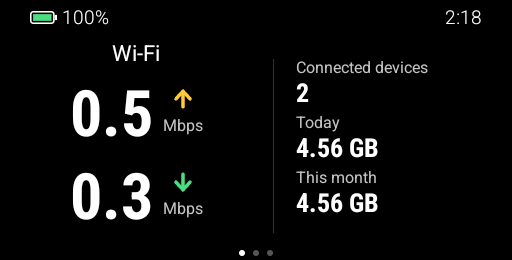
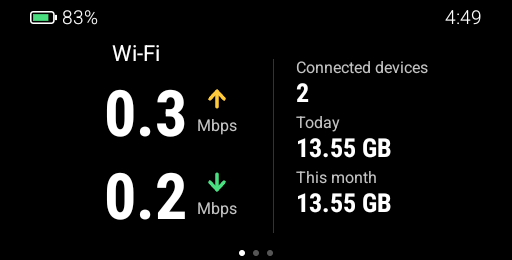
fix: correct flipped hotspot touches, invert QR and pin speed arrows

diff --git a/app/src/main/java/vn/lit/screenos/HotspotView.kt b/app/src/main/java/vn/lit/screenos/HotspotView.kt
@@ -191,9 +191,10 @@ class HotspotView(context: Context, private val onShortcuts: () -> Unit, private
     private fun speedPage(): View {
         val column = LinearLayout(context).apply { orientation = LinearLayout.VERTICAL; gravity = Gravity.CENTER }
         column.addView(carrier, LinearLayout.LayoutParams(-1, -2))
+        // The number grows to the left so the arrow and unit stay in one place.
         fun row(value: TextView, up: Boolean) = LinearLayout(context).apply {
-            gravity = Gravity.CENTER
-            addView(value)
+            gravity = Gravity.CENTER_VERTICAL; setPadding(0, 0, Ui.dp(context, 36), 0)
+            addView(value.apply { gravity = Gravity.END }, LinearLayout.LayoutParams(0, -2, 1f))
             addView(LinearLayout(context).apply {
                 orientation = LinearLayout.VERTICAL; gravity = Gravity.CENTER_HORIZONTAL
                 addView(Arrow(context, up), LinearLayout.LayoutParams(Ui.dp(context, 22), Ui.dp(context, 22)))
@@ -229,10 +230,8 @@ class HotspotView(context: Context, private val onShortcuts: () -> Unit, private
 
     override fun dispatchTouchEvent(event: MotionEvent): Boolean {
         if (event.actionMasked == MotionEvent.ACTION_UP && !dimmed) scheduleDim()
-        if (!flipped) return super.dispatchTouchEvent(event)
-        // The view is drawn rotated 180 degrees, so map touches into the same upright space.
-        val upright = MotionEvent.obtain(event).apply { transform(android.graphics.Matrix().apply { setRotate(180f, width / 2f, height / 2f) }) }
-        return try { super.dispatchTouchEvent(upright) } finally { upright.recycle() }
+        // The parent already maps touches through this view's 180 degree rotation.
+        return super.dispatchTouchEvent(event)
     }
 
     private var flipped = false

diff --git a/app/src/main/java/vn/lit/screenos/SpeedTestView.kt b/app/src/main/java/vn/lit/screenos/SpeedTestView.kt
@@ -89,8 +89,9 @@ class SpeedTestView(
     private fun stat() = small("-", 17f, Color.WHITE).apply { typeface = bold }
 
     private fun speedRow(value: TextView, up: Boolean, label: Int) = LinearLayout(context).apply {
-        gravity = Gravity.CENTER; contentDescription = I18n.text(label)
-        addView(value)
+        gravity = Gravity.CENTER_VERTICAL; contentDescription = I18n.text(label); setPadding(0, 0, Ui.dp(context, 24), 0)
+        // The number grows to the left so the arrow and unit stay in one place.
+        addView(value.apply { gravity = Gravity.END }, LayoutParams(0, -2, 1f))
         addView(LinearLayout(context).apply {
             orientation = VERTICAL; gravity = Gravity.CENTER_HORIZONTAL
             addView(HotspotView.Arrow(context, up), LayoutParams(Ui.dp(context, 20), Ui.dp(context, 20)))

diff --git a/app/src/main/java/vn/lit/screenos/HotspotWifi.kt b/app/src/main/java/vn/lit/screenos/HotspotWifi.kt
@@ -24,7 +24,7 @@ data class HotspotWifi(val ssid: String, val password: String) {
 
     fun bitmap(size: Int): Bitmap {
         val matrix = matrix(size)
-        val pixels = IntArray(matrix.width * matrix.height) { if (matrix[it % matrix.width, it / matrix.width]) Color.BLACK else Color.WHITE }
+        val pixels = IntArray(matrix.width * matrix.height) { if (matrix[it % matrix.width, it / matrix.width]) Color.WHITE else Color.BLACK }
         return Bitmap.createBitmap(pixels, matrix.width, matrix.height, Bitmap.Config.RGB_565)
     }
 

diff --git a/README.md b/README.md
@@ -4,9 +4,9 @@
 
 Open apps on your **Galaxy Z Flip3 cover screen**. Foldlet adds an app drawer, search, favorites, and navigation alongside Samsung’s native clock and widgets.
 
-**[Download APK 0.12.4](https://github.com/luongwnv/Foldlet/releases/download/v0.12.4/Foldlet-0.12.4.apk)** - **0.12.4 beta** - Tested on **SM-F711B, Android 14 / One UI 6.1.1**.
+**[Download APK 0.12.5](https://github.com/luongwnv/Foldlet/releases/download/v0.12.5/Foldlet-0.12.5.apk)** - **0.12.5 beta** - Tested on **SM-F711B, Android 14 / One UI 6.1.1**.
 
-[Foldlet Controls 1.1.0 (Optional)](https://github.com/luongwnv/Foldlet/releases/download/v0.12.4/Foldlet-Controls-1.1.0.apk) enables one-tap Wi-Fi and Bluetooth without a computer.
+[Foldlet Controls 1.1.0 (Optional)](https://github.com/luongwnv/Foldlet/releases/download/v0.12.5/Foldlet-Controls-1.1.0.apk) enables one-tap Wi-Fi and Bluetooth without a computer.
 
 ## Screenshots
 
@@ -43,7 +43,7 @@ Actual captures of the native Android interface running on a dedicated test emul
 
 ## Getting started
 
-1. Download **Foldlet-0.12.4.apk** from [Releases](https://github.com/luongwnv/Foldlet/releases), open it on your phone, and allow installation from that source when Android asks.
+1. Download **Foldlet-0.12.5.apk** from [Releases](https://github.com/luongwnv/Foldlet/releases), open it on your phone, and allow installation from that source when Android asks.
 2. Open **Foldlet** on the inner screen. In **Overview**, grant **Display over other apps** and enable the **Foldlet** service in Android’s **Accessibility** settings.
 3. Grant **Usage access** to use Recent apps. Allow notifications if you want the service notification and its **Stop** button.
 4. Turn on the Foldlet service, fold your phone, and wake the cover screen.
@@ -153,7 +153,7 @@ Hotspot state detection requires **Foldlet Controls 1.1.0**. If a routine cannot
 Turn on **Settings > Hotspot mode**, or tap **Hotspot mode** in Shortcuts. Foldlet then shows this screen instead of the Samsung clock. Swipe sideways through three pages:
 
 1. **Speed and usage**: the top line shows the Wi-Fi network the phone is sharing, or the carrier and 4G/5G when it uses mobile data. Below are live upload and download speed, the number of connected devices, and data used today and this month on that network, Wi-Fi or mobile. While the hotspot is on, the speed is measured on the hotspot itself, so it reflects what connected devices use.
-2. **Wi-Fi**: a QR code that other phones can scan to join, with the network name and password.
+2. **Wi-Fi**: a white-on-black QR code that other phones, including iPhone, can scan to join, with the network name and password.
 3. **Speed test**: see below.
 
 The battery and time stay at the top of every page. Swipe down from the top for Shortcuts, or touch and hold to return to the Samsung clock until the next screen wake. When the folded phone is turned upside down, the motion sensor flips the screen so it stays readable, without a USB connection.
